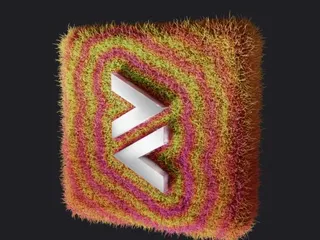
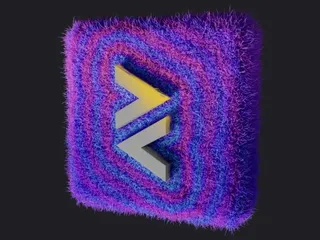
feat: Show the raw blind fields in the blind-data example (#9963)
Add a View dropdown (Effect / Logo Field / Edge Field) to the blind-data example that renders the
blind fields themselves, tint the logo shine gold, and draw the logo in gray so its walls read silver.

Rebuild the logo's 'logo' blind field so it also covers the logo's walls: the outline is taken from
the logo's top face and extruded down to the pillow, and large pillow splats whose bodies lie across
the logo are included.

diff --git a/examples/src/examples/gaussian-splatting-fx/blind-data/controls.jsx b/examples/src/examples/gaussian-splatting-fx/blind-data/controls.jsx
@@ -3,6 +3,7 @@ import {
     BooleanInput,
     LabelGroup,
     Panel,
+    SelectInput,
     SliderInput
 } from '@playcanvas/pcui/react';
 
@@ -18,6 +19,19 @@ import {
 export function Controls({ observer }) {
     return (
         <Panel headerText='Settings'>
+            <LabelGroup text='View'>
+                <SelectInput
+                    type='number'
+                    binding={new BindingTwoWay()}
+                    link={{ observer, path: 'view' }}
+                    value={observer.get('view') ?? 0}
+                    options={[
+                        { v: 0, t: 'Effect' },
+                        { v: 1, t: 'Logo Field' },
+                        { v: 2, t: 'Edge Field' }
+                    ]}
+                />
+            </LabelGroup>
             <LabelGroup text='Animate'>
                 <BooleanInput
                     type='toggle'
